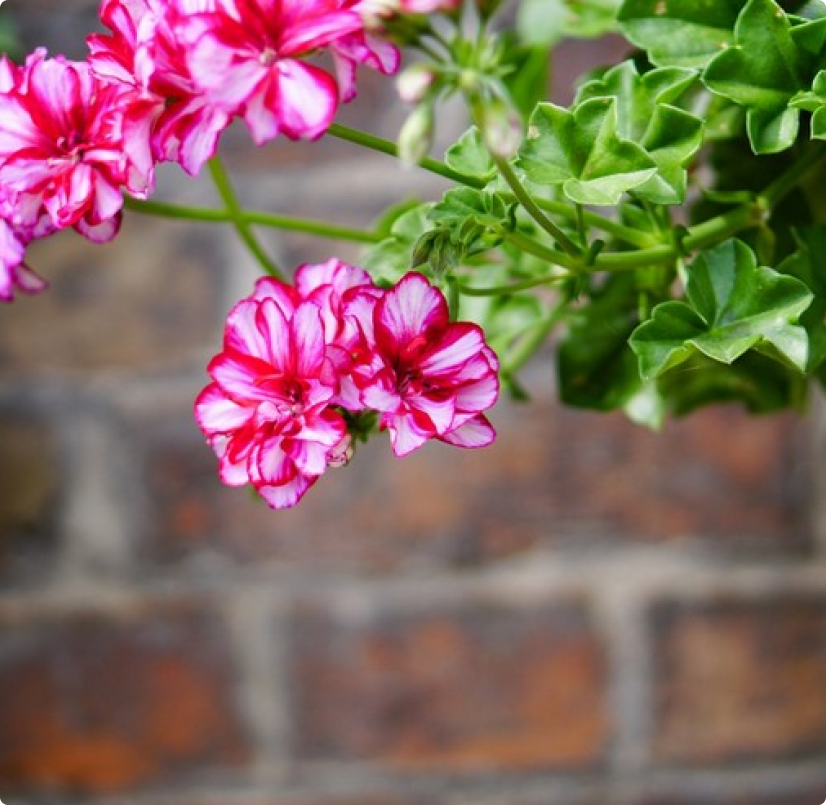
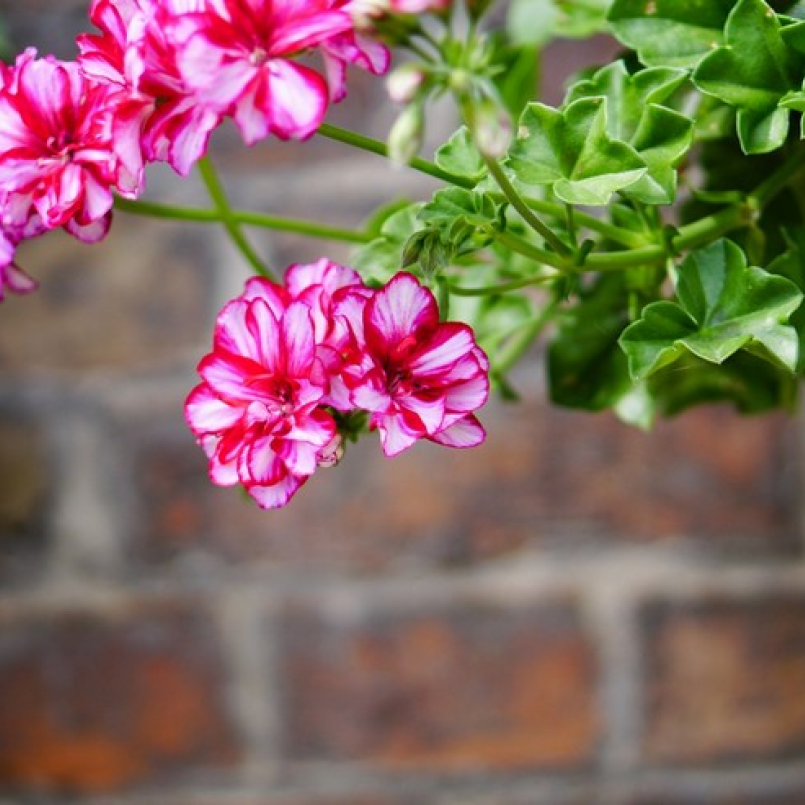
Change the aspect ratio of pics to square. Fix decCartItems(). Minor fixes.

diff --git a/FrontEnd/src/store/reducers/ActionCreators.ts b/FrontEnd/src/store/reducers/ActionCreators.ts
@@ -39,17 +39,16 @@ export async function Register(userLogin: string, userPassword: string): Promise
 }
 
 export const GetAllProducts = () => async (dispatch: AppDispatch) => {
-        dispatch(productSlice.actions.ProductsFetching());
+    dispatch(productSlice.actions.ProductsFetching());
 
-        await axios.get<TProduct[]>('/api/goods/getAll')
-            .then(response => dispatch(productSlice.actions.ProductsFetchingSuccess(response.data)))
-            .catch(error => dispatch(productSlice.actions.ProductsFetchingError(error.message)))
-    
+    await axios.get<TProduct[]>('/api/goods/getAll')
+        .then(response => dispatch(productSlice.actions.ProductsFetchingSuccess(response.data)))
+        .catch(error => dispatch(productSlice.actions.ProductsFetchingError(error.message)))
 }
 
 export async function GetProduct(id: number) {
-    const response = await axios.get('/api/goods?id=' + id);
-    return response.data;
+    return await axios.get('/api/goods?id=' + id)
+        .then(response => response.data)
 }
 
 export function GetPollResult(chars: TChars) {

diff --git a/FrontEnd/src/components/ProductCard/ProductCard.tsx b/FrontEnd/src/components/ProductCard/ProductCard.tsx
@@ -60,16 +60,16 @@ export function ProductCard({ product, cardType }: { product: TProduct, cardType
     // Decrease the number of items in the cart
     async function DecCartNum() {
         const result = await DecCartItem(id);
+
         if (result === 200) {
-            setCartNumber(cartNumber - 1);
+            if (cartNumber > 1) {
+                setCartNumber(cartNumber - 1);
+                DecCartItem(id);
+            }
+            else if (cardType !== 'cart') {
+                removeFromCart();
+            }
         }
-        // if (cartNumber > 1) {
-        //     setCartNumber(cartNumber - 1);
-        //     DecCartItem(id);
-        // }
-        // else if (cardType !== 'cart') {
-        //     //remove item from cart
-        // }
     }
 
     async function switchFavorites() {

diff --git a/FrontEnd/src/pages/ProductPage/ProductPage.tsx b/FrontEnd/src/pages/ProductPage/ProductPage.tsx
@@ -36,6 +36,7 @@ export function ProductPage(): JSX.Element {
 
     useEffect(() => {
         GetProd();
+        setIsLoading(true);
     }, [id])
 
     return (
